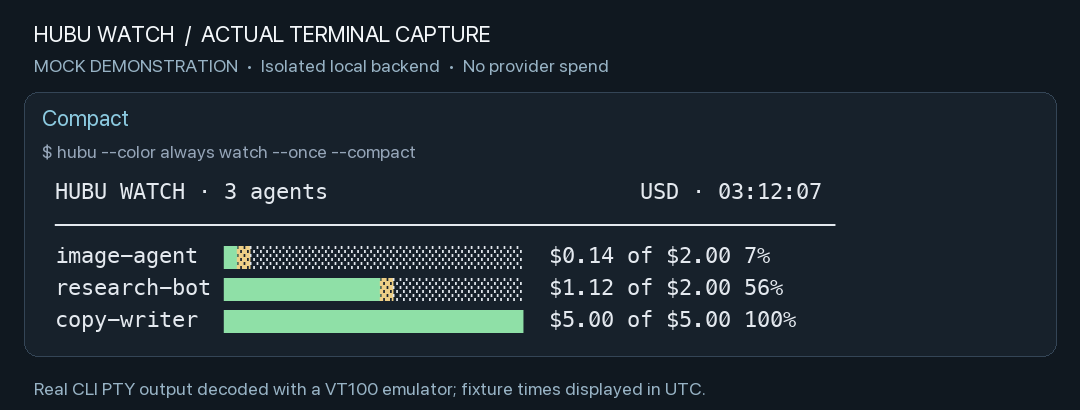
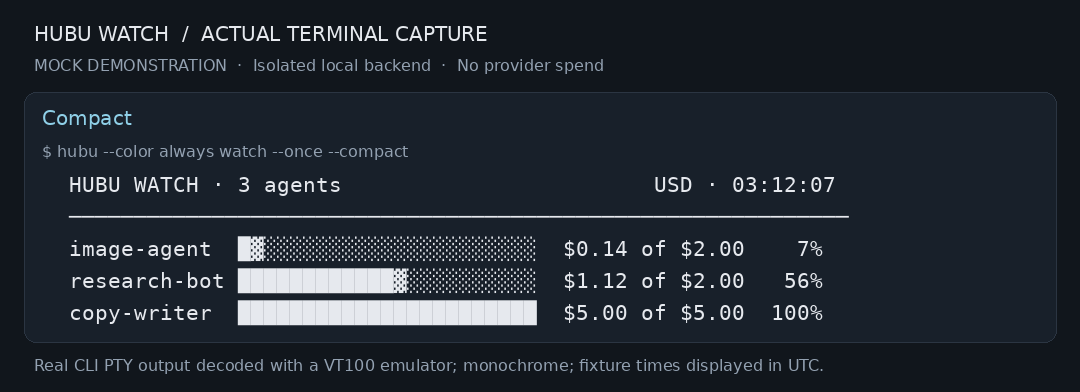
feat(watch): monochrome display, single-width approval glyph
Drop all colour from hubu watch: bar segments are told apart by glyph
texture, the frozen segment no longer pulses, and changed rows, new or
changed feed lines and the STALE header use bold instead of colour.
Remove the now-unused FrozenDim terminal role.

Replace the approval glyph U+23F8, which many terminals render as a
double-width emoji and which shifted the feed columns, with U+2016.
Right-align multi-agent percentages so they read as a column.
Regenerate the watch captures.

Claude-Session: https://claude.ai/code/session_0115QdYSfcqqsi8Qyxhsbmkn

diff --git a/crates/hubu-cli/src/watch.rs b/crates/hubu-cli/src/watch.rs
@@ -55,7 +55,6 @@ pub(super) fn command(context: &CliContext, mut args: Vec<String>) -> Result<()>
     url.query_pairs_mut()
         .append_pair("currency", &opts.currency);
     let mut previous: Option<Value> = None;
-    let mut tick = 0;
     loop {
         let started = Instant::now();
         let mut request = client.get(url.clone());
@@ -79,7 +78,6 @@ pub(super) fn command(context: &CliContext, mut args: Vec<String>) -> Result<()>
                     previous.as_ref(),
                     &opts,
                     terminal::stdout(),
-                    tick,
                     false,
                     terminal_height(),
                 )?;
@@ -87,16 +85,8 @@ pub(super) fn command(context: &CliContext, mut args: Vec<String>) -> Result<()>
                 output
             }
             Err(_) if !opts.once => match &previous {
-                Some(s) => render(
-                    s,
-                    None,
-                    &opts,
-                    terminal::stdout(),
-                    tick,
-                    true,
-                    terminal_height(),
-                )?,
-                None => terminal::stdout().warning(" HUBU WATCH · STALE · retrying\n"),
+                Some(s) => render(s, None, &opts, terminal::stdout(), true, terminal_height())?,
+                None => terminal::stdout().heading(" HUBU WATCH · STALE · retrying\n"),
             },
             Err(error) => return Err(error.without_url().into()),
         };
@@ -110,7 +100,6 @@ pub(super) fn command(context: &CliContext, mut args: Vec<String>) -> Result<()>
         if opts.once {
             return Ok(());
         }
-        tick += 1;
         std::thread::sleep(Duration::from_secs(1).saturating_sub(started.elapsed()));
     }
 }
@@ -278,7 +267,7 @@ fn event_status(event: &Value, single: bool) -> (&'static str, String) {
             ),
         ),
         Some("needs_approval") => (
-            "⏸",
+            "‖",
             format!(
                 "{} {}",
                 cents(&event["requested_cents"]),
@@ -338,7 +327,6 @@ fn render(
     previous: Option<&Value>,
     opts: &Options,
     style: terminal::TerminalStyle,
-    tick: usize,
     stale: bool,
     height: usize,
 ) -> Result<String> {
@@ -380,7 +368,7 @@ fn render(
         &[(
             header,
             if stale {
-                Some(terminal::Role::Warning)
+                Some(terminal::Role::Heading)
             } else {
                 None
             },
@@ -404,7 +392,7 @@ fn render(
                 .any(|k| old[*k] != row[*k])
             });
         let highlight = if changed {
-            Some(terminal::Role::Accent)
+            Some(terminal::Role::Heading)
         } else {
             None
         };
@@ -451,27 +439,25 @@ fn render(
         } else {
             format!(" {} ", pad(&name, 12))
         };
-        let detail = format!(
-            "  {} of {}{} {}%",
-            dollars(used),
-            dollars(limit),
-            if single { " used ·" } else { "" },
-            pct
-        );
+        // Multi-agent percentages right-align so rows read as a column.
+        let detail = if single {
+            format!("  {} of {} used · {}%", dollars(used), dollars(limit), pct)
+        } else {
+            format!(
+                "  {} of {}{:>6}",
+                dollars(used),
+                dollars(limit),
+                format!("{pct}%")
+            )
+        };
         line(
             &mut out,
             &[
                 (label, highlight),
-                ("█".repeat(cells[0]), Some(terminal::Role::Success)),
-                (
-                    "▓".repeat(cells[1]),
-                    Some(if tick.is_multiple_of(2) {
-                        terminal::Role::Warning
-                    } else {
-                        terminal::Role::FrozenDim
-                    }),
-                ),
-                ("░".repeat(cells[2]), Some(terminal::Role::Muted)),
+                // Monochrome by design: segments differ by glyph texture only.
+                ("█".repeat(cells[0]), None),
+                ("▓".repeat(cells[1]), None),
+                ("░".repeat(cells[2]), None),
                 (detail, highlight),
             ],
             style,
@@ -503,10 +489,7 @@ fn render(
         if !single && !rows.is_empty() {
             line(
                 &mut out,
-                &[(
-                    "               █ consumed  ▓ frozen  ░ free".into(),
-                    Some(terminal::Role::Muted),
-                )],
+                &[("               █ consumed  ▓ frozen  ░ free".into(), None)],
                 style,
             );
         }
@@ -537,7 +520,7 @@ fn render(
                     &[(
                         event_line(event, single),
                         if changed {
-                            Some(terminal::Role::Accent)
+                            Some(terminal::Role::Heading)
                         } else {
                             None
                         },
@@ -561,7 +544,7 @@ mod tests {
         json!({"schema_version":"hubu-watch-v1","currency":"usd","observed_at":"2026-10-08T03:12:07Z","rows":[{"agent_id":"a","name":"image-agent","budget_id":"b","limit_cents":200,"consumed_cents":6,"frozen_cents":8,"available_cents":186}],"recent_events":[{"id":"d","agent_id":"a","agent_name":"image-agent","created_at":"2026-10-08T03:12:05Z","provider":{"id":"provider:black-forest-labs:flux","display_name":"untrusted"},"status":"settled","requested_cents":8,"reserved_cents":8,"settled_cost":{"amount":"58","scale":3},"budget_charge_cents":6,"rule_ids":["draft_images"]}]})
     }
     fn output(s: &Value, o: &Options) -> String {
-        render(s, None, o, terminal::TerminalStyle::plain(), 0, false, 100).unwrap()
+        render(s, None, o, terminal::TerminalStyle::plain(), false, 100).unwrap()
     }
     #[test]
     fn single_multi_and_compact_layouts() {
@@ -597,7 +580,6 @@ mod tests {
             None,
             &options(vec!["--agent".into(), "image-agent".into()]).unwrap(),
             terminal::TerminalStyle::plain(),
-            0,
             false,
             24
         )
@@ -630,7 +612,7 @@ mod tests {
             ("authorized", "◐", "reserved"),
             ("claimed", "◐", "reserved"),
             ("settled", "✓", "settled"),
-            ("needs_approval", "⏸", "awaiting approval"),
+            ("needs_approval", "‖", "awaiting approval"),
             ("denied", "✗", "blocked"),
             ("released", "○", "released"),
             ("expired", "○", "released"),
@@ -695,52 +677,32 @@ mod tests {
         assert!(result.contains("evil?[2J?"));
         assert_eq!(exact_cents(&json!({"amount":"1","scale":3})), "0.1¢");
         assert_eq!(exact_cents(&json!({"amount":"1234","scale":4})), "12.34¢");
-        let stale = render(&s, None, &o, terminal::TerminalStyle::plain(), 0, true, 100).unwrap();
+        let stale = render(&s, None, &o, terminal::TerminalStyle::plain(), true, 100).unwrap();
         assert!(stale.lines().next().unwrap().contains("STALE · retrying"));
         assert!(!stale.lines().next().unwrap().contains("USD"));
     }
     #[test]
-    fn highlights_only_amount_changes_or_new_changed_status_and_pulses_frozen() {
+    fn monochrome_bold_highlights_only_amount_or_status_changes() {
         let s = snapshot();
         let o = options(vec![]).unwrap();
-        let same = render(
-            &s,
-            Some(&s),
-            &o,
-            terminal::TerminalStyle::colored(),
-            0,
-            false,
-            100,
-        )
-        .unwrap();
-        let pulse = render(
-            &s,
-            Some(&s),
-            &o,
-            terminal::TerminalStyle::colored(),
-            1,
-            false,
-            100,
-        )
-        .unwrap();
-        assert_ne!(same, pulse);
+        let colored = terminal::TerminalStyle::colored();
+        let same = render(&s, Some(&s), &o, colored, false, 100).unwrap();
         let mut changed = s.clone();
         changed["rows"][0]["frozen_cents"] = json!(9);
         changed["recent_events"][0]["status"] = json!("claimed");
-        let highlighted = render(
-            &changed,
-            Some(&s),
-            &o,
-            terminal::TerminalStyle::colored(),
-            0,
-            false,
-            100,
-        )
-        .unwrap();
-        assert!(highlighted.contains("\u{1b}[96m"));
+        let highlighted = render(&changed, Some(&s), &o, colored, false, 100).unwrap();
+        let stale = render(&s, None, &o, colored, true, 100).unwrap();
+        for output in [&same, &highlighted, &stale] {
+            // No foreground colors (30-37, 90-97) anywhere; emphasis is bold only.
+            assert!(
+                !output.contains("\u{1b}[3") && !output.contains("\u{1b}[9"),
+                "{output:?}"
+            );
+        }
+        assert!(highlighted.matches("\u{1b}[1m").count() > same.matches("\u{1b}[1m").count());
         assert!(!highlighted.contains('*'));
         assert!(
-            render(&s, None, &o, terminal::TerminalStyle::plain(), 0, false, 5)
+            render(&s, None, &o, terminal::TerminalStyle::plain(), false, 5)
                 .unwrap()
                 .lines()
                 .count()

diff --git a/crates/hubu-cli/src/terminal.rs b/crates/hubu-cli/src/terminal.rs
@@ -40,7 +40,6 @@ pub(crate) enum Role {
     Muted,
     Accent,
     Command,
-    FrozenDim,
 }
 
 #[derive(Clone, Copy, Debug, PartialEq, Eq)]
@@ -190,9 +189,6 @@ fn style_for(role: Role) -> Style {
         Role::Error => Style::new().fg_color(Some(AnsiColor::Red.into())).bold(),
         Role::Muted => Style::new().dimmed(),
         Role::Accent => Style::new().fg_color(Some(AnsiColor::BrightCyan.into())),
-        Role::FrozenDim => Style::new()
-            .fg_color(Some(AnsiColor::Yellow.into()))
-            .dimmed(),
         Role::Command => Style::new().fg_color(Some(AnsiColor::Cyan.into())),
     }
 }
